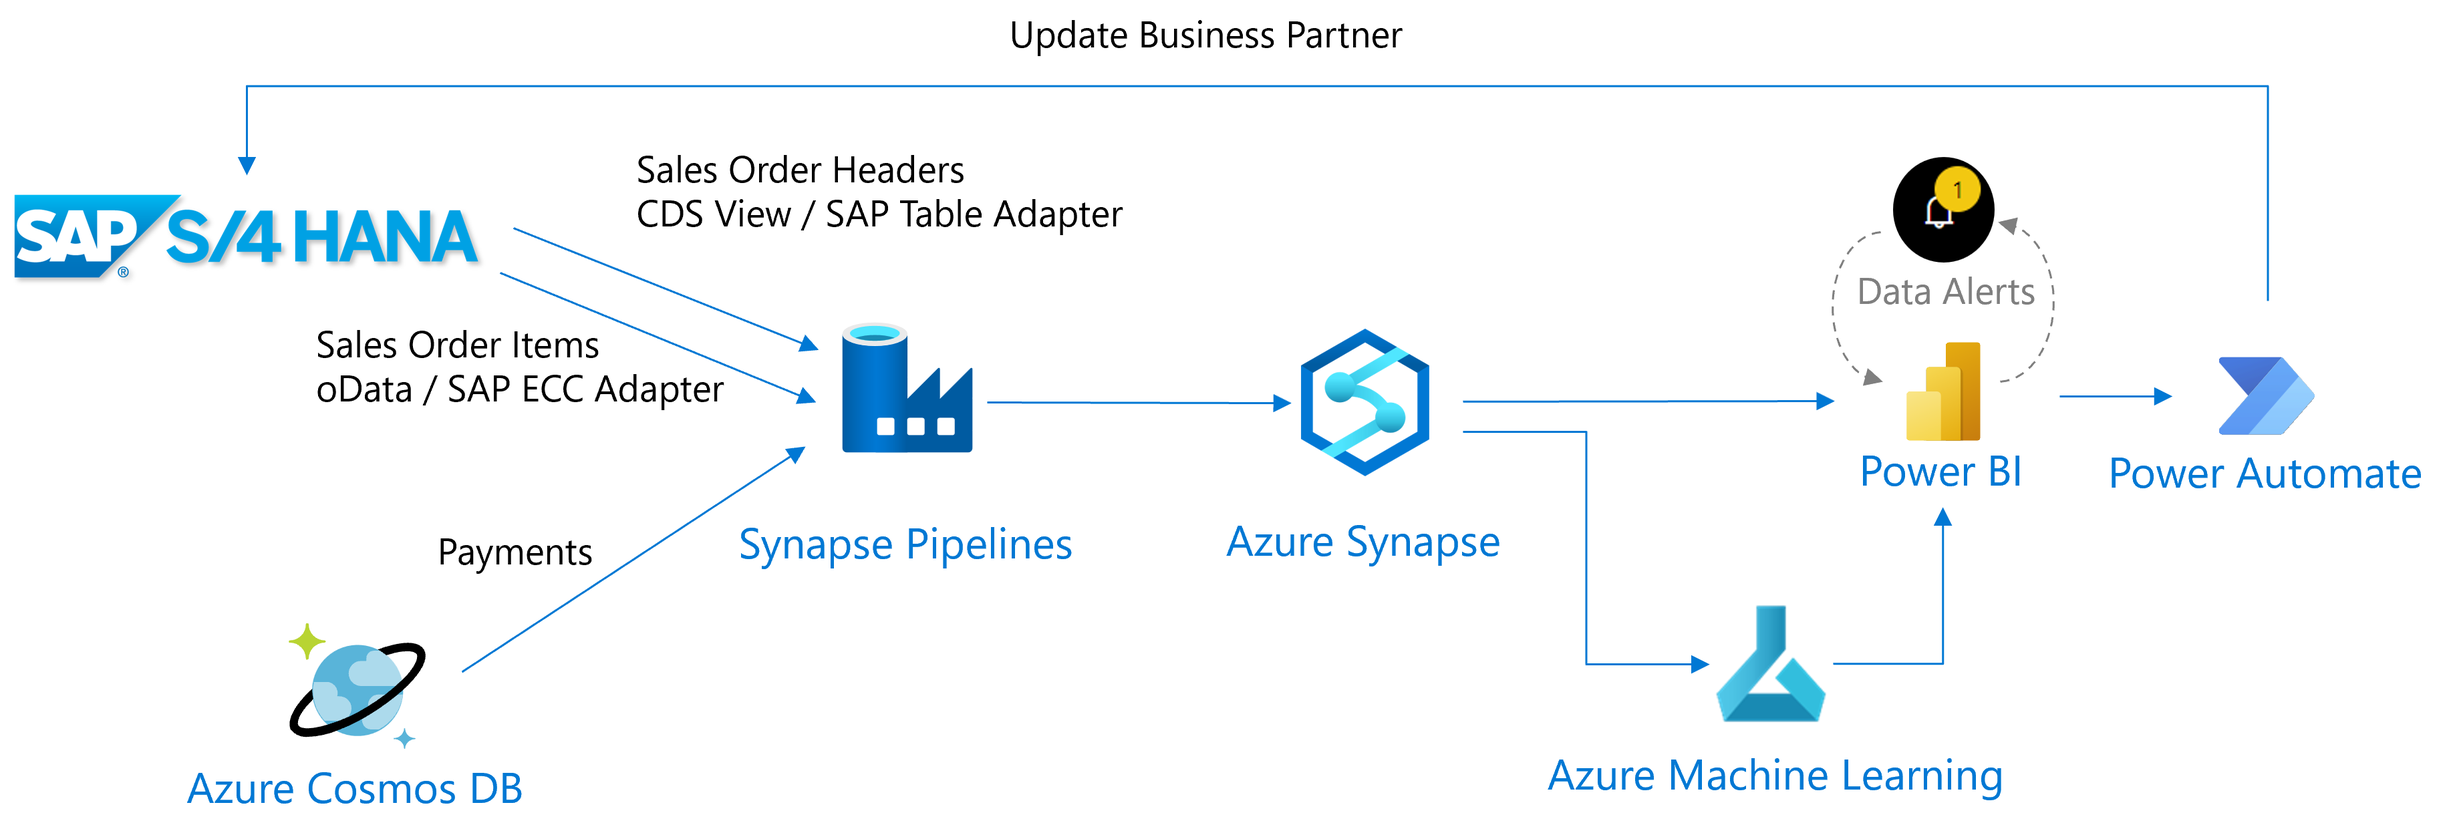
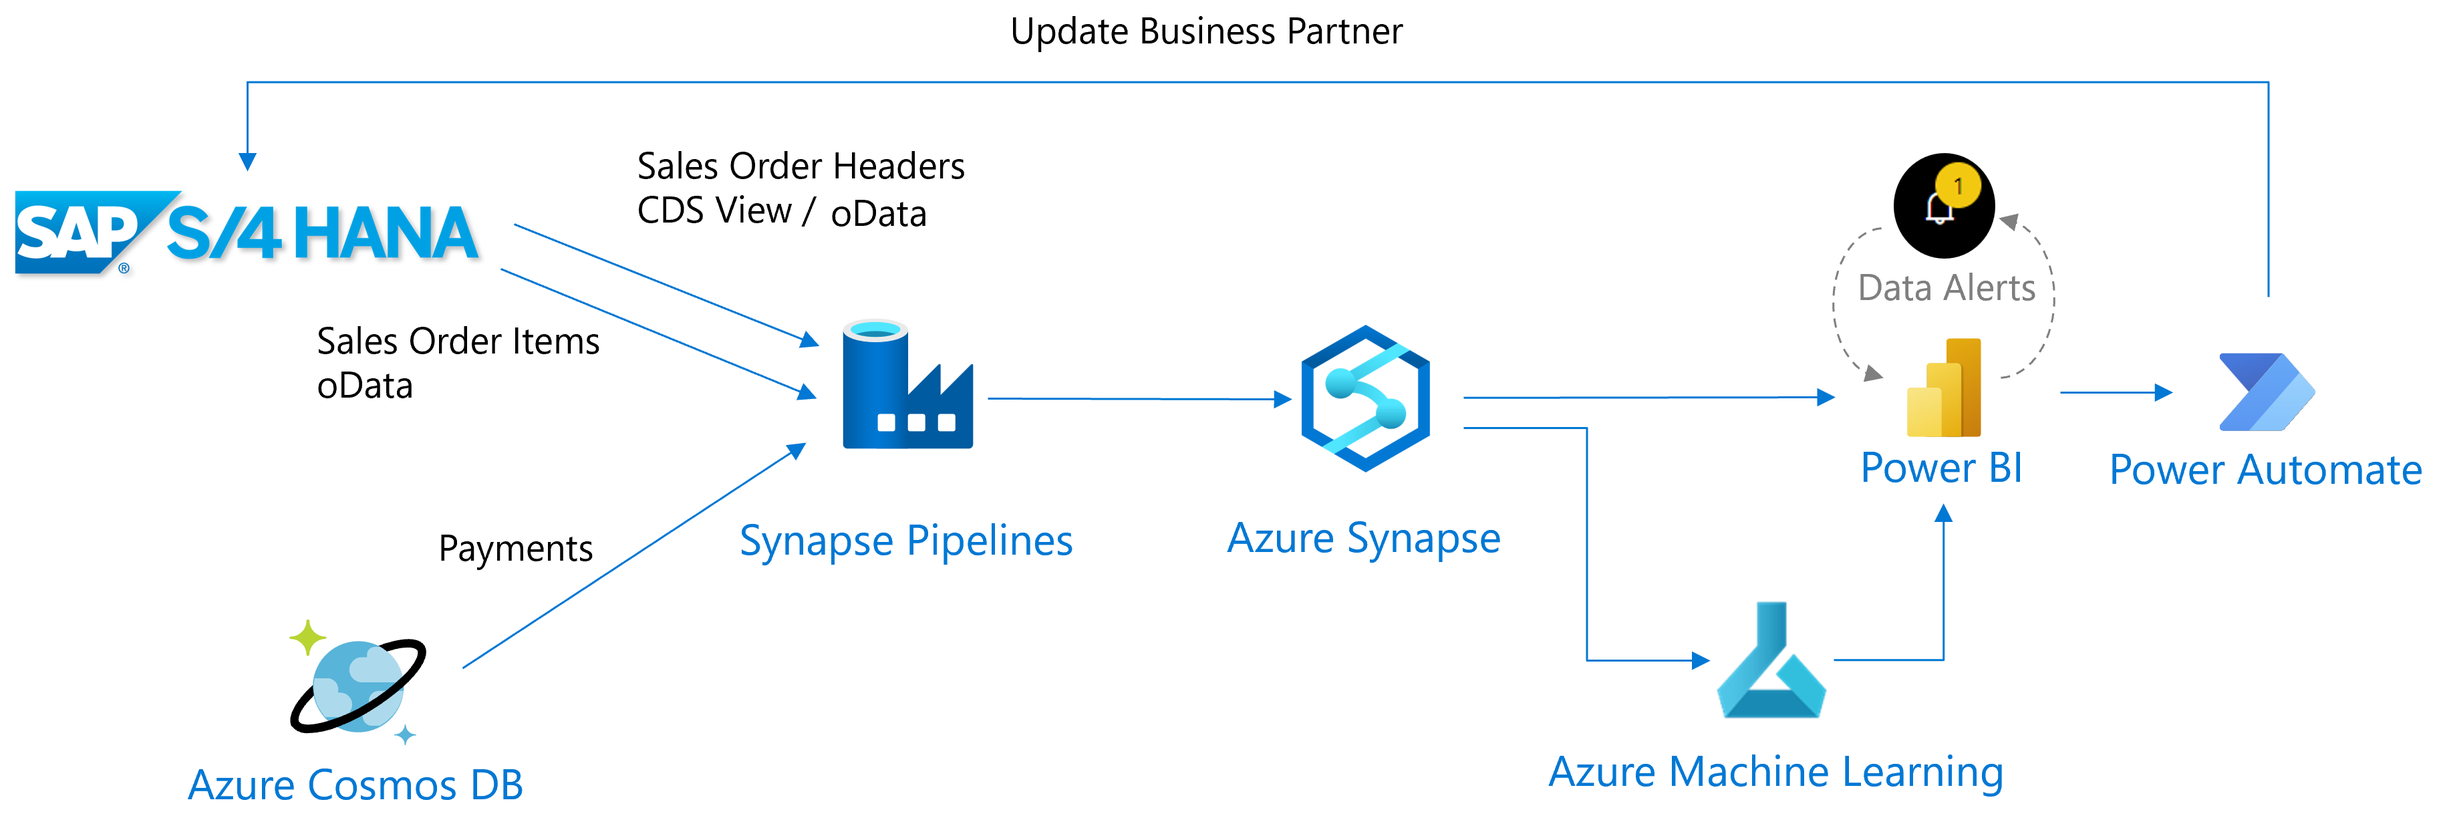
more work in progress, ingestion of sales order data

diff --git a/Hands-on lab/HOL step-by step - SAP_plus_extend_and_innovate.md b/Hands-on lab/HOL step-by step - SAP_plus_extend_and_innovate.md
@@ -41,6 +41,13 @@ Microsoft and the trademarks listed at <https://www.microsoft.com/en-us/legal/in
     - [Task 3: Create pipeline to ingest payment data into Cosmos DB](#task-3-create-pipeline-to-ingest-payment-data-into-cosmos-db)
   - [Exercise 3: Install the self-hosted integration runtime on the SAP virtual machine](#exercise-3-install-the-self-hosted-integration-runtime-on-the-sap-virtual-machine)
     - [Task 1: Download and install the self-hosted integration runtime](#task-1-download-and-install-the-self-hosted-integration-runtime)
+  - [Exercise 4: Ingest sales order information from SAP into Azure Synapse Analytics](#exercise-4-ingest-sales-order-information-from-sap-into-azure-synapse-analytics)
+    - [Task 1: Create dedicated SQL pool tables to hold sales data](#task-1-create-dedicated-sql-pool-tables-to-hold-sales-data)
+    - [Task 2: Create a linked service to the SAP OData endpoint for sales order header information](#task-2-create-a-linked-service-to-the-sap-odata-endpoint-for-sales-order-header-information)
+    - [Task 3: Create a linked service to the SAP OData endpoint for sales order item information](#task-3-create-a-linked-service-to-the-sap-odata-endpoint-for-sales-order-item-information)
+    - [Task 4: Create a linked service to the dedicated SQL pool database](#task-4-create-a-linked-service-to-the-dedicated-sql-pool-database)
+    - [Task 5: Create integration datasets for sales order header and sales order items](#task-5-create-integration-datasets-for-sales-order-header-and-sales-order-items)
+    - [Task 6: Create a pipeline to ingest sales data from S/4HANA](#task-6-create-a-pipeline-to-ingest-sales-data-from-s4hana)
   - [After the hands-on lab](#after-the-hands-on-lab)
     - [Task 1: Task name](#task-1-task-name)
     - [Task 2: Task name](#task-2-task-name)
@@ -53,19 +60,19 @@ Microsoft and the trademarks listed at <https://www.microsoft.com/en-us/legal/in
 
 In this hands-on lab you will:
 
-1. Extract (historical) Sales Orders from SAP S/4HANA using Azure Synapse Analytics pipelines
+1. **Extract** (historical) Sales Orders from SAP S/4HANA using Azure Synapse Analytics pipelines
 
-2. Extract historical payments from a non-SAP system, in this example Cosmos DB using Azure Synapse Analytics pipelines
+2. **Extract** historical payments from a non-SAP system, in this case Cosmos DB using Azure Synapse Analytics pipelines
 
-3. Visualize the extracted Sales Orders and invoice data with Power BI
+3. **Visualize** the extracted Sales Orders and invoice data with Power BI
 
-4. Predict incoming cash flow for Sales Orders using Azure Machine Learning
+4. **Predict** incoming cash flow for Sales Orders using Azure Machine Learning
 
-5. Trigger actions in SAP based on insights gained from the prediction
+5. **Trigger actions** in SAP based on insights gained from the prediction model
 
 ## Overview
 
-When customers buy goods, the corresponding payments are not completed immediately. Some customers will pay directly while other customers will pay at the end of their payment terms. This makes it difficult for companies to predict the incoming cashflow. In this simplified exercise, Azure tooling is used to predict the incoming cashflow. To predict cash flow, historical Sales Orders and payments data is required. Contoso Retail also needs a way to flag risky customers in the SAP system whose payments tend to arrive late.
+When customers buy goods, the corresponding payments are not completed immediately. Some customers will pay directly while other customers will pay at the end of their payment terms. This makes it difficult for companies to predict the incoming cashflow. In this lab, Azure tooling is used to predict the incoming cashflow. To predict cash flow, historical Sales Orders and payments data is required. Contoso Retail also needs a way to flag risky customers in the SAP system whose payments tend to arrive late.
 
 ## Solution architecture
 
@@ -409,7 +416,7 @@ The source data is payment data that is located in Azure Data Lake Storage Gen2 
 
 1. In Synapse Studio, select the **Integrate** hub from the left menu. Then from the center pane menu, expand the **+** button and choose **Pipeline**.
 
-    ![Synapse Studio displays with the Integrate hub selected in the left menu and the + menu expanded in the center panel. The pipeline item is selected.](menu/ss_newpipelinemenu.png "New pipeline")
+    ![Synapse Studio displays with the Integrate hub selected in the left menu and the + menu expanded in the center panel. The pipeline item is selected.](media/ss_newpipelinemenu.png "New pipeline")
 
 2. In the **Properties** blade of the new pipeline, set the name field to **UploadPaymentsToCosmosDB**. If desired, press the **Properties** button in the pipeline toolbar to collapse this blade.
 
@@ -450,7 +457,7 @@ The source data is payment data that is located in Azure Data Lake Storage Gen2 
 ## Exercise 3: Install the self-hosted integration runtime on the SAP virtual machine
 
 In order for Azure Synapse Analytics to utilize the locally hosted OData services on the 
-SAP virtual machine, a self-hosted integration runtime must be installed. The self-hosted integration runtime is used to establish connectivity between Azure Synapse Analytics and other non-public internet facing compute resources. These can be on-premises resources or those protected by virtual networks and firewalls.
+SAP virtual machine, a self-hosted integration runtime must be installed. The self-hosted integration runtime is used to establish connectivity between Azure Synapse Analytics and other non-public internet facing compute resources. These can be on-premises resources and those protected by virtual networks and firewalls.
 
 ### Task 1: Download and install the self-hosted integration runtime
 
@@ -491,6 +498,263 @@ SAP virtual machine, a self-hosted integration runtime must be installed. The se
     ![The Integration runtimes list displays with teh SAPVM-SHIR item highlighted.](media/ss_irlisting_withshir.png "Integration runtimes list")
 
 12. Optionally close Chrome and minimize the SAP VM.
+
+## Exercise 4: Ingest sales order information from SAP into Azure Synapse Analytics
+
+Historical sales order information resides in S/4HANA and is exposed with OData services. The self-hosted integration runtime installed on the SAP virtual machine enables connectivity between Azure Synapse Analytics and S/4HANA, this will allow for local web calls to take place to the OData endpoints to retrieve sales data.
+
+### Task 1: Create dedicated SQL pool tables to hold sales data
+
+1. In Synapse Studio, select the **Develop** hub from the left menu, then expand the **+** menu from the center pane and choose **SQL script**.
+
+    ![Synapse Studio displays with the Develop hub selected in the left menu and the + menu expanded in the center pane. The SQL script item is highlighted.](media/ss_develophub_newsqlscript.png "New SQL script")
+
+2. In the SQL script tab, choose to connect to the **sapdatasynsql** dedicated SQL pool in the toolbar menu.
+
+    ![The SQL Script tab displays with the sapdatasynsql database chosen in the Connect to field.](media/ss_sqlscript_connectto_sapdatasynsql.png "Connect to the dedicated SQL pool database")
+
+3. In the SQL script editor, paste and run the following SQL command to create the SalesOrderHeaders table. The **Run** button is located in the SQL script toolbar menu.
+
+    ```SQL
+    CREATE TABLE SalesOrderHeaders(
+        BILLINGCOMPANYCODE nvarchar(4),
+        BILLINGDOCUMENTDATE date,
+        COUNTRY nvarchar(3),
+        CREATIONDATE date,
+        CREATIONTIME time,
+        CREDITCONTROLAREA nvarchar(4),
+        CUSTOMERACCOUNTGROUP nvarchar(4),
+        CUSTOMERGROUP nvarchar(2),
+        CUSTOMERNAME nvarchar(80),
+        DISTRIBUTIONCHANNEL nvarchar(2),
+        LASTCHANGEDATE date,
+        LASTCHANGEDATETIME datetimeoffset,       
+        ORGANIZATIONDIVISION nvarchar(2),
+        PRICINGDATE date,
+        PURCHASEORDERBYCUSTOMER nvarchar(35),
+        SALESDISTRICT nvarchar(6),
+        SALESDOCUMENT nvarchar(10) NOT NULL,
+        SALESDOCUMENTPROCESSINGTYPE nvarchar(1),
+        SALESDOCUMENTTYPE nvarchar(4),
+        SALESGROUP nvarchar(3),
+        SALESOFFICE nvarchar(4),
+        SALESORGANIZATION nvarchar(4),
+        SDDOCUMENTCATEGORY nvarchar(4),
+        SOLDTOPARTY nvarchar(10),
+        TOTALNETAMOUNT decimal(15, 2),
+        TRANSACTIONCURRENCY nvarchar(5),
+        CITYNAME nvarchar(35),
+        POSTALCODE nvarchar(10)
+    )
+    ```
+
+4. Replace the code in the script window with the following command to create the SalesOrderItems table. Run this script.
+
+    ```SQL
+    CREATE TABLE SalesOrderItems(
+        SalesOrder nvarchar(10),
+        SalesOrderItem nvarchar(6),
+        SalesOrderItemText nvarchar(40),
+        SoldToParty nvarchar(10),
+        MaterialByCustomer nvarchar(35),
+        MaterialName nvarchar(40),
+        Material nvarchar(40),
+        ShipToParty nvarchar(10),
+        FullName nvarchar(80),
+        SDProcessStatus nvarchar(1),
+        DeliveryStatus nvarchar(1),
+        SDDocumentRejectionStatus nvarchar(1),
+        SalesDocumentRjcnReason nvarchar(2),
+        RequestedQuantity decimal(15,3),
+        RequestedQuantityUnit nvarchar(3),
+        TransactionCurrency nvarchar(5),
+        NetAmount decimal(16, 3),
+        MaterialGroup nvarchar(9),
+        Batch nvarchar(10),
+        ProductionPlant nvarchar(4),
+        StorageLocation nvarchar(4),
+        ShippingPointName nvarchar(30),
+        ShippingPoint nvarchar(4),
+        SalesOrderItemCategory nvarchar(4),
+        BillingBlockCriticality tinyint,
+        ItemBillingBlockReason nvarchar(2),
+        OrderRelatedBillingStatus nvarchar(1),
+        RequestedDeliveryDate date,
+        HigherLevelItem nvarchar(6),
+        SalesOrderProcessingType nvarchar(1),
+        RequirementSegment nvarchar(40)
+    )
+    ```
+
+### Task 2: Create a linked service to the SAP OData endpoint for sales order header information
+
+A linked service describes connectivity to external resources. In this case, an authenticated OData-based linked service is required to pull sales order data from SAP.
+
+1. In Synapse Studio, select the **Manage** hub, then choose **Linked services** from the center menu. Select **+ New** in the Linked services screen toolbar menu.
+
+    ![The Manage Hub displays with the Linked services item selected. The + New button is highlighted on the Linked services screen toolbar.](media/ss_newlinkedservicemenu.png "New Linked service")
+
+2. In the New linked service blade, search for and select **OData**. Select **Continue**.
+
+    ![The New linked service blade displays with OData in the search box and in the filtered search results.](media/ss_newlinkedservice_odatasel.png "New OData Linked service")
+
+4. Fill the New linked service form as follows, then test connection. Select **Create**.
+
+    | Field | Value |   
+    |-------|-------|
+    | Name | Enter `sap_salesorderheader_odata`. |
+    | Connect via integration runtime | Select **SAPVM-SHIR**. |
+    | Service URL | Use the SAP OData URL recorded in the from Exercise 1. |
+    | Authentication type | Select **Basic authentication**. |
+    | User name | Enter `S4H_EXT`. |
+    | Password | Enter `Welcome1`. |
+    
+    ![The New linked service OData form displays populated with the preceding values. The Test connection button is highlighted.](media/ss_salesorderheader_linkedserviceform.png "New Linked service - OData")
+
+### Task 3: Create a linked service to the SAP OData endpoint for sales order item information
+
+1. In Synapse Studio, select the **Manage** hub, then choose **Linked services** from the center menu. Select **+ New** in the Linked services screen toolbar menu.
+
+    ![The Manage Hub displays with the Linked services item selected. The + New button is highlighted on the Linked services screen toolbar.](media/ss_newlinkedservicemenu.png "New Linked service")
+
+2. In the New linked service blade, search for and select **OData**. Select **Continue**.
+
+    ![The New linked service blade displays with OData in the search box and in the filtered search results.](media/ss_newlinkedservice_odatasel.png "New OData Linked service")
+
+4. Fill the New linked service form as follows, then test connection. Select **Create**.
+
+    | Field | Value |   
+    |-------|-------|
+    | Name | Enter `sap_salesorderitems_odata`. |
+    | Connect via integration runtime | Select **SAPVM-SHIR**. |
+    | Service URL | Use the SAP OData URL recorded in the from Exercise 1. Replace **ZBD_I_SALESDOCUMENT_E_CDS** with `sd_f1814_so_fs_srv` in the URL value. |
+    | Authentication type | Select **Basic authentication**. |
+    | User name | Enter `S4H_EXT`. |
+    | Password | Enter `Welcome1`. |
+    
+    ![The New linked service OData form displays populated with the preceding values. The Test connection button is highlighted.](media/ss_salesorderitems_linkedserviceform.png "New Linked service - OData")
+
+### Task 4: Create a linked service to the dedicated SQL pool database
+
+1. In Synapse Studio, select the **Manage** hub, then choose **Linked services** from the center menu. Select **+ New** in the Linked services screen toolbar menu.
+
+    ![The Manage Hub displays with the Linked services item selected. The + New button is highlighted on the Linked services screen toolbar.](media/ss_newlinkedservicemenu.png "New Linked service")
+
+2. In the New linked service blade, search for and select **Azure Synapse Analytics**. Select **Continue**.
+
+    ![The New linked service blade displays with Azure Synapse Analytics entered in the search box and Azure Synapse Analytics selected from the search results.](media/ss_linkedservice_azuresynapseanalytics_menu.png "New Azure Synapse Analytics linked service")
+
+3. In the New linked service Azure Synapse Analytics blade, populate the form as follows then select **Create**.
+    
+    | Field | Value |   
+    |-------|-------|
+    | Name | Enter `sales_order_data_sql`. |
+    | Azure subscription | Select the Azure subscription for the lab. |
+    | Server name | Select **sapdatasynws{SUFFIX}**. |
+    | Database name | Select **sapdatasynsql**. |
+    | Authentication type | Select **System Assigned Managed Identity**. |
+
+    ![The New linked service Azure Synapase Analytics blade form displays populated with the preceding values.](media/ss_linkedservice_azuresynapseanalytics_form.png "New Azure Synapse Analytics linked service form")
+
+4. On the Synapse Studio toolbar menu, select **Publish all**. Select **Publish** on the verification blade.
+
+    ![The Synapse Studio toolbar menu displays with the Publish all button highlighted.](media/ss_publishall.png "Publish all")
+
+### Task 5: Create integration datasets for sales order header and sales order items
+
+The Copy activity in Azure Synapse Analytics requires the usage of integration datasets to describe both the source and sink data sources. In this task, four integration datasets are defined representing sales order headers and sales order item data (source in S/4HANA OData and sink in dedicated SQL pool tables).
+
+1. In Synapse Studio, select the **Data** hub from the left menu and expand the **+** menu in the center pane.
+
+    ![The Data hub displays with the + menu expanded and the Integration dataset option highlighted.](media/ss_datahub_newintegrationdataset.png "New Integration dataset")
+
+2. In the New integration dataset blade, search for and select **OData**
+
+    ![The New integration dataset blade displays with OData entered in the search box and OData shown in the search results.](media/ss_newintegrationdataset_odatamenu.png "OData integration dataset")
+
+3. On the **Set properties** blade, fill the form as follows and select **OK**. This will create the integration dataset representing sales order header information.
+
+    | Field | Value |   
+    |-------|-------|
+    | Name | Enter `sales_order_headers_odata`. |
+    | Linked service | Select **sap_salesorderheader_odata**. |
+    | Path | Select **ZBD_I_Salesdocument_E**. |
+
+    ![The Set properties blade displays populated with the preceding values.](media/ss_salesorderheader_dataset_form.png "Sales order headers integration dataset details")
+
+4. Repeat steps 1 and 2 to create a new integration dataset. On the **Set properties** blade, fill the form as follows and select **OK**. This creates the integration dataset for sales item information.
+
+    | Field | Value |   
+    |-------|-------|
+    | Name | Enter `sales_order_items_odata`. |
+    | Linked service | Select **sap_salesorderitems_odata**. |
+    | Path | Select **C_Salesorderitemfs**. |
+
+    ![The Set properties blade displays populated with the preceding values.](media/ss_salesorderitems_dataset_form.png "Sales order items integration dataset details")
+
+5. Now it is time to create the integration datasets for the sales order tables created in the dedicated SQL pool. In Synapse Studio, select the **Data** hub from the left menu and expand the **+** menu in the center pane.
+
+    ![The Data hub displays with the + menu expanded and the Integration dataset option highlighted.](media/ss_datahub_newintegrationdataset.png "New Integration dataset")
+
+6. In the New integration dataset blade, search for and select **Azure Synapse Analytics**. Select **Continue**.
+
+    ![The New integration dataset blade displays with Azure Synapse Analytics entered in the search box and Azure Synapse Analytics shown in the search results.](media/ss_newintegrationdataset_azuresynapseanalyticsmenu.png "New Azure Synapse Analytics integration dataset")
+
+7. On the **Set properties** blade, populate the form as follows and select **OK**.
+
+    | Field | Value |   
+    |-------|-------|
+    | Name | Enter `sales_order_headers_sql`. |
+    | Linked service | Select **sales_order_data_sql**. |
+    | Table name | Select **dbo.SalesOrderHeaders**. |
+    | Import schema | Select **From connection/store**. |
+
+    ![The Set properties blade displays populated with the preceding values.](media/ss_azuresynapseanalytics_salesorderheaders_dataset_form.png "New Azure Synapse Analytics Sales headers integration dataset form")
+
+8. Repeat steps 5 and 6 to create a new Azure Synapse Analytics integration dataset. On the **Set properties** blade, populate the form as follows and select **OK**.
+
+    | Field | Value |   
+    |-------|-------|
+    | Name | Enter `sales_order_items_sql`. |
+    | Linked service | Select **sales_order_data_sql**. |
+    | Table name | Select **dbo.SalesOrderItems**. |
+    | Import schema | Select **From connection/store**. |
+
+    ![The Set properties blade displays populated with the preceding values.](media/ss_azuresynapseanalytics_salesorderitems_dataset_form.png "New Azure Synapse Analytics Sales items integration dataset form")
+
+9. On the Synapse Studio toolbar menu, select **Publish all**. Select **Publish** on the verification blade.
+
+    ![The Synapse Studio toolbar menu displays with the Publish all button highlighted.](media/ss_publishall.png "Publish all")
+
+### Task 6: Create a pipeline to ingest sales data from S/4HANA
+
+An Azure Synapse Analytics pipeline can be used to move data from source to sink. The Copy data activity moves data from a source dataset to a sink dataset. This task creates a pipeline with two Copy data activities to move sales order header and sales order items data from S/4HANA into the dedicated SQL pool tables in Azure Synapse Analytics.
+
+1. In Synapse Studio, select the **Integrate** hub from the left menu. Expand the **+** menu from the center pane, and choose **Pipeline**.
+
+    ![Synapse Studio displays with the Integrate hub selected in the left menu and the + menu expanded in the center panel. The pipeline item is selected.](media/ss_newpipelinemenu.png "New pipeline")
+
+2. In the Properties blade, enter the name `IngestSalesOrderData`. Optionally collapse the Properties blade using the button on the toolbar of the pipeline.
+
+    ![The Properties blade of the pipeline displays with the name button and the collapse properties button highlighted.](media/ss_ingestsalesorderdata_pipeline_properties.png "Pipeline properties")
+
+3. From the Activities menu, expand the **Move & transform** section, then drag-and-drop a **Copy data** activity to the pipeline visual canvas. With the Copy data activity selected, enter `copy_sales_order_headers` in the **Name** field.
+
+    ![The pipeline tab displays with the Move & transform item expanded in the Activities menu. An arrow indicates a drag-and-drop operation of a Copy data activity to the pipeline visual canvas. The Copy data activity is active and copy_sales_order_headers is entered in the Name field of the General tab.](media/ss_salespipeline_copyactivity_salesorderheaders.png "Copy data activity")
+
+4. With the **copy_sales_order_headers** activity selected, select the **Source** tab. In the **Source dataset** tab, select **sales_order_headers_odata**.
+
+    ![The Source tab is highlighted with sales_order_headers_odata selected as the Source dataset.](media/ss_copydata_salesheader_source.png "Copy data activity Source tab")
+
+5. With the **copy_sales_order_headers** activity selected, select the **Sink** tab. Select **sales_order_headers_sql** as the Sink dataset.
+
+    ![The Sink tab is highlighted with sales_order_headers_sql selected as the Sink dataset.](media/ss_copydata_salesheader_sink.png "Copy data activity Sink tab")
+
+6. With the **copy_sales_order_headers** activity selected, select the **Mapping** tab. Select the **Import schemas** button to review the data mapping.
+
+    ![The Mapping tab is highlighted with the Import schemas button selected.](media/ss_copydata_salesheader_mapping.png "Copy data activity Mapping tab")
+
+7. asdf
 
 ## After the hands-on lab 
 
